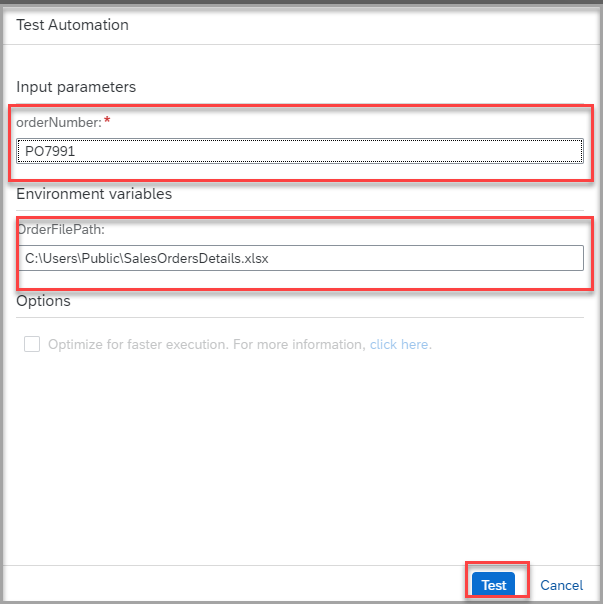
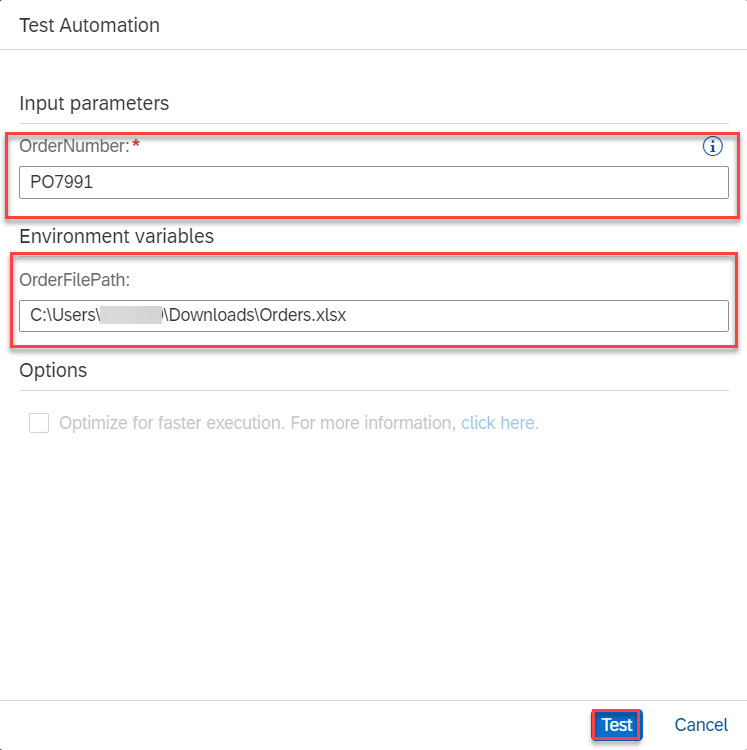
to prod

Changed region(s): [[0.0, 0.0, 1.0, 1.0]]

diff --git a/tutorials/spa-create-automation/spa-create-automation.md b/tutorials/spa-create-automation/spa-create-automation.md
@@ -83,7 +83,7 @@ In this exercise, you will automate the process to read the **sales order** deta
 ### Create environment variable
 
 
-Business projects usually need to use parameters and variable at runtime. These variables are usually saved in their runtime landscapes for example Dev, Test or Production environments. In this case, you will need to maintain an environment variable that will contain the file full path of the Excel file used in the automation.
+Business projects usually need to use parameters and variables at runtime. These variables are usually saved in their runtime landscapes for example Dev, Test or Production environments. In this case, you will need to maintain an environment variable that will contain the file full path of the Excel file used in the automation.
 
 > Environment Variables allow you to reuse certain information for a given environment. You use environment variables to pass parameters to automations.
 
@@ -131,7 +131,7 @@ You will now design the automation in the Automation Editor by dragging-and-drop
 3. To get the **Excel Cloud Link**:
 
     -  In the Automation Details search for the activity **Excel Cloud Link**,
-    -  Drag and drop the activity into the canvas,
+    -  Drag and drop the activity into the canvas.
 
     ![001](011.png)
 
@@ -141,7 +141,7 @@ You will now design the automation in the Automation Editor by dragging-and-drop
 
 5. In the Excel File screen:
     - Select **Browse**.
-    - Choose the **SalesOrdersDetails.xlsx** file which is saved on your machine.
+    - Choose the **Orders.xlsx** file which is saved on your machine.
 
     ![001](013.png)
 
@@ -165,7 +165,7 @@ You will now design the automation in the Automation Editor by dragging-and-drop
 
     <!-- border -->![001](017.png)
 
-9. Go to Get Order Details automation. In Excel Cloud Link activity on the right side, under Output Parameters, manually change the variable name to **Orders**.
+9. Go to **Get Order Details** automation. In **Excel Cloud Link** activity on the right side, under Output Parameters, manually change the variable name to **Orders**.
 
     <!-- border -->![001](018.png)
 
@@ -202,14 +202,14 @@ Input and output parameters allow you to exchange data in the workflow of your a
 
 2. Add Input parameters as following:
     - In Parameter Name enter: `OrderNumber`.
-    - In Description enter: Receives order number from the Order Processing Form.
+    - In Description enter: **Receives order number from the Order Processing Form**.
     - In Data type choose: **String**.
 
     <!-- border -->![001](024.png)
 
 3. Add Output parameters as following:
     - In Parameter Name enter: `SelectedOrder`.
-    - In Description enter: Selected order details are passed to the Process.
+    - In Description enter: **Selected order details are passed to the Process**.
     - In Data type choose: **Sales Order**.
 
     <!-- border -->![001](025.png)
@@ -282,7 +282,7 @@ This control has the following loop parameters:
 6. To add Set Variable Value:
     - Click on the canvas.
     - In Automation Details search for the activity **Set Variable Value**.
-    - Drag and Drop the activity into the canvas.
+    - Drag and Drop the activity into the canvas below the condition you set.
 
     <!-- border -->![001](033.png)
 
@@ -297,15 +297,15 @@ This control has the following loop parameters:
 
 8. To end loop:
     - Click on the canvas,
-    - in Automation Details search for the activity **Loop End**,
-    - Drag and Drop the activity into the canvas.
+    - In Automation Details search for the activity **Loop End**,
+    - Drag and Drop the activity into the canvas just below the **Set Variable Value**.
 
     <!-- border -->![001](035.png)
 
 
 9. Use **Log message** activity to print your results. To add Log Message:
      - In Automation Details search for the activity **Log message**,
-     - Drag and Drop the activity into the canvas.
+     - Drag and Drop the activity into the canvas outside the **For Each** loop.
 
     <!-- border -->![001](036.png)
 
@@ -329,13 +329,13 @@ Apart from creating an output parameter, it is mandatory to pass the data throug
 
     > Make sure to add the steps **Condition**, **Set Variable Value**, **End Loop** inside the **For Each** block.
 
-2. The complete automation **Get Order Details** automation looks as below.  
+2. The complete **Get Order Details** automation looks as below.  
 
     <!-- border -->![001](038.png)
 
     Now you will map the Automation Parameters with the Form Parameters.
 
-3. Select **Order Processing** Process. Choose **Get Order Details** automation in the process.
+3. Select **Order Processing** process. Choose **Get Order Details** automation in the process.
 
     <!-- border -->![001](039.png)
 
@@ -382,7 +382,7 @@ Apart from creating an output parameter, it is mandatory to pass the data throug
 
 After the design of the automation that retrieves the data form the Excel file, simplify the start form by deleting the not needed fields.
 
-1. In the Order Processing Process tab:
+1. In the Order Processing tab:
     - Select three dots next to **Order Processing Form**.
     - Select **Open Editor**.
 
@@ -404,7 +404,7 @@ After the design of the automation that retrieves the data form the Excel file, 
 ### Mapping forms of the process
 
 
-The different Forms of the process will need Inputs Mapping from the Automation Outputs.
+The different Forms of the process will need Inputs mapping from the automation Outputs.
 
 <!-- border -->![001](048.png)
 
